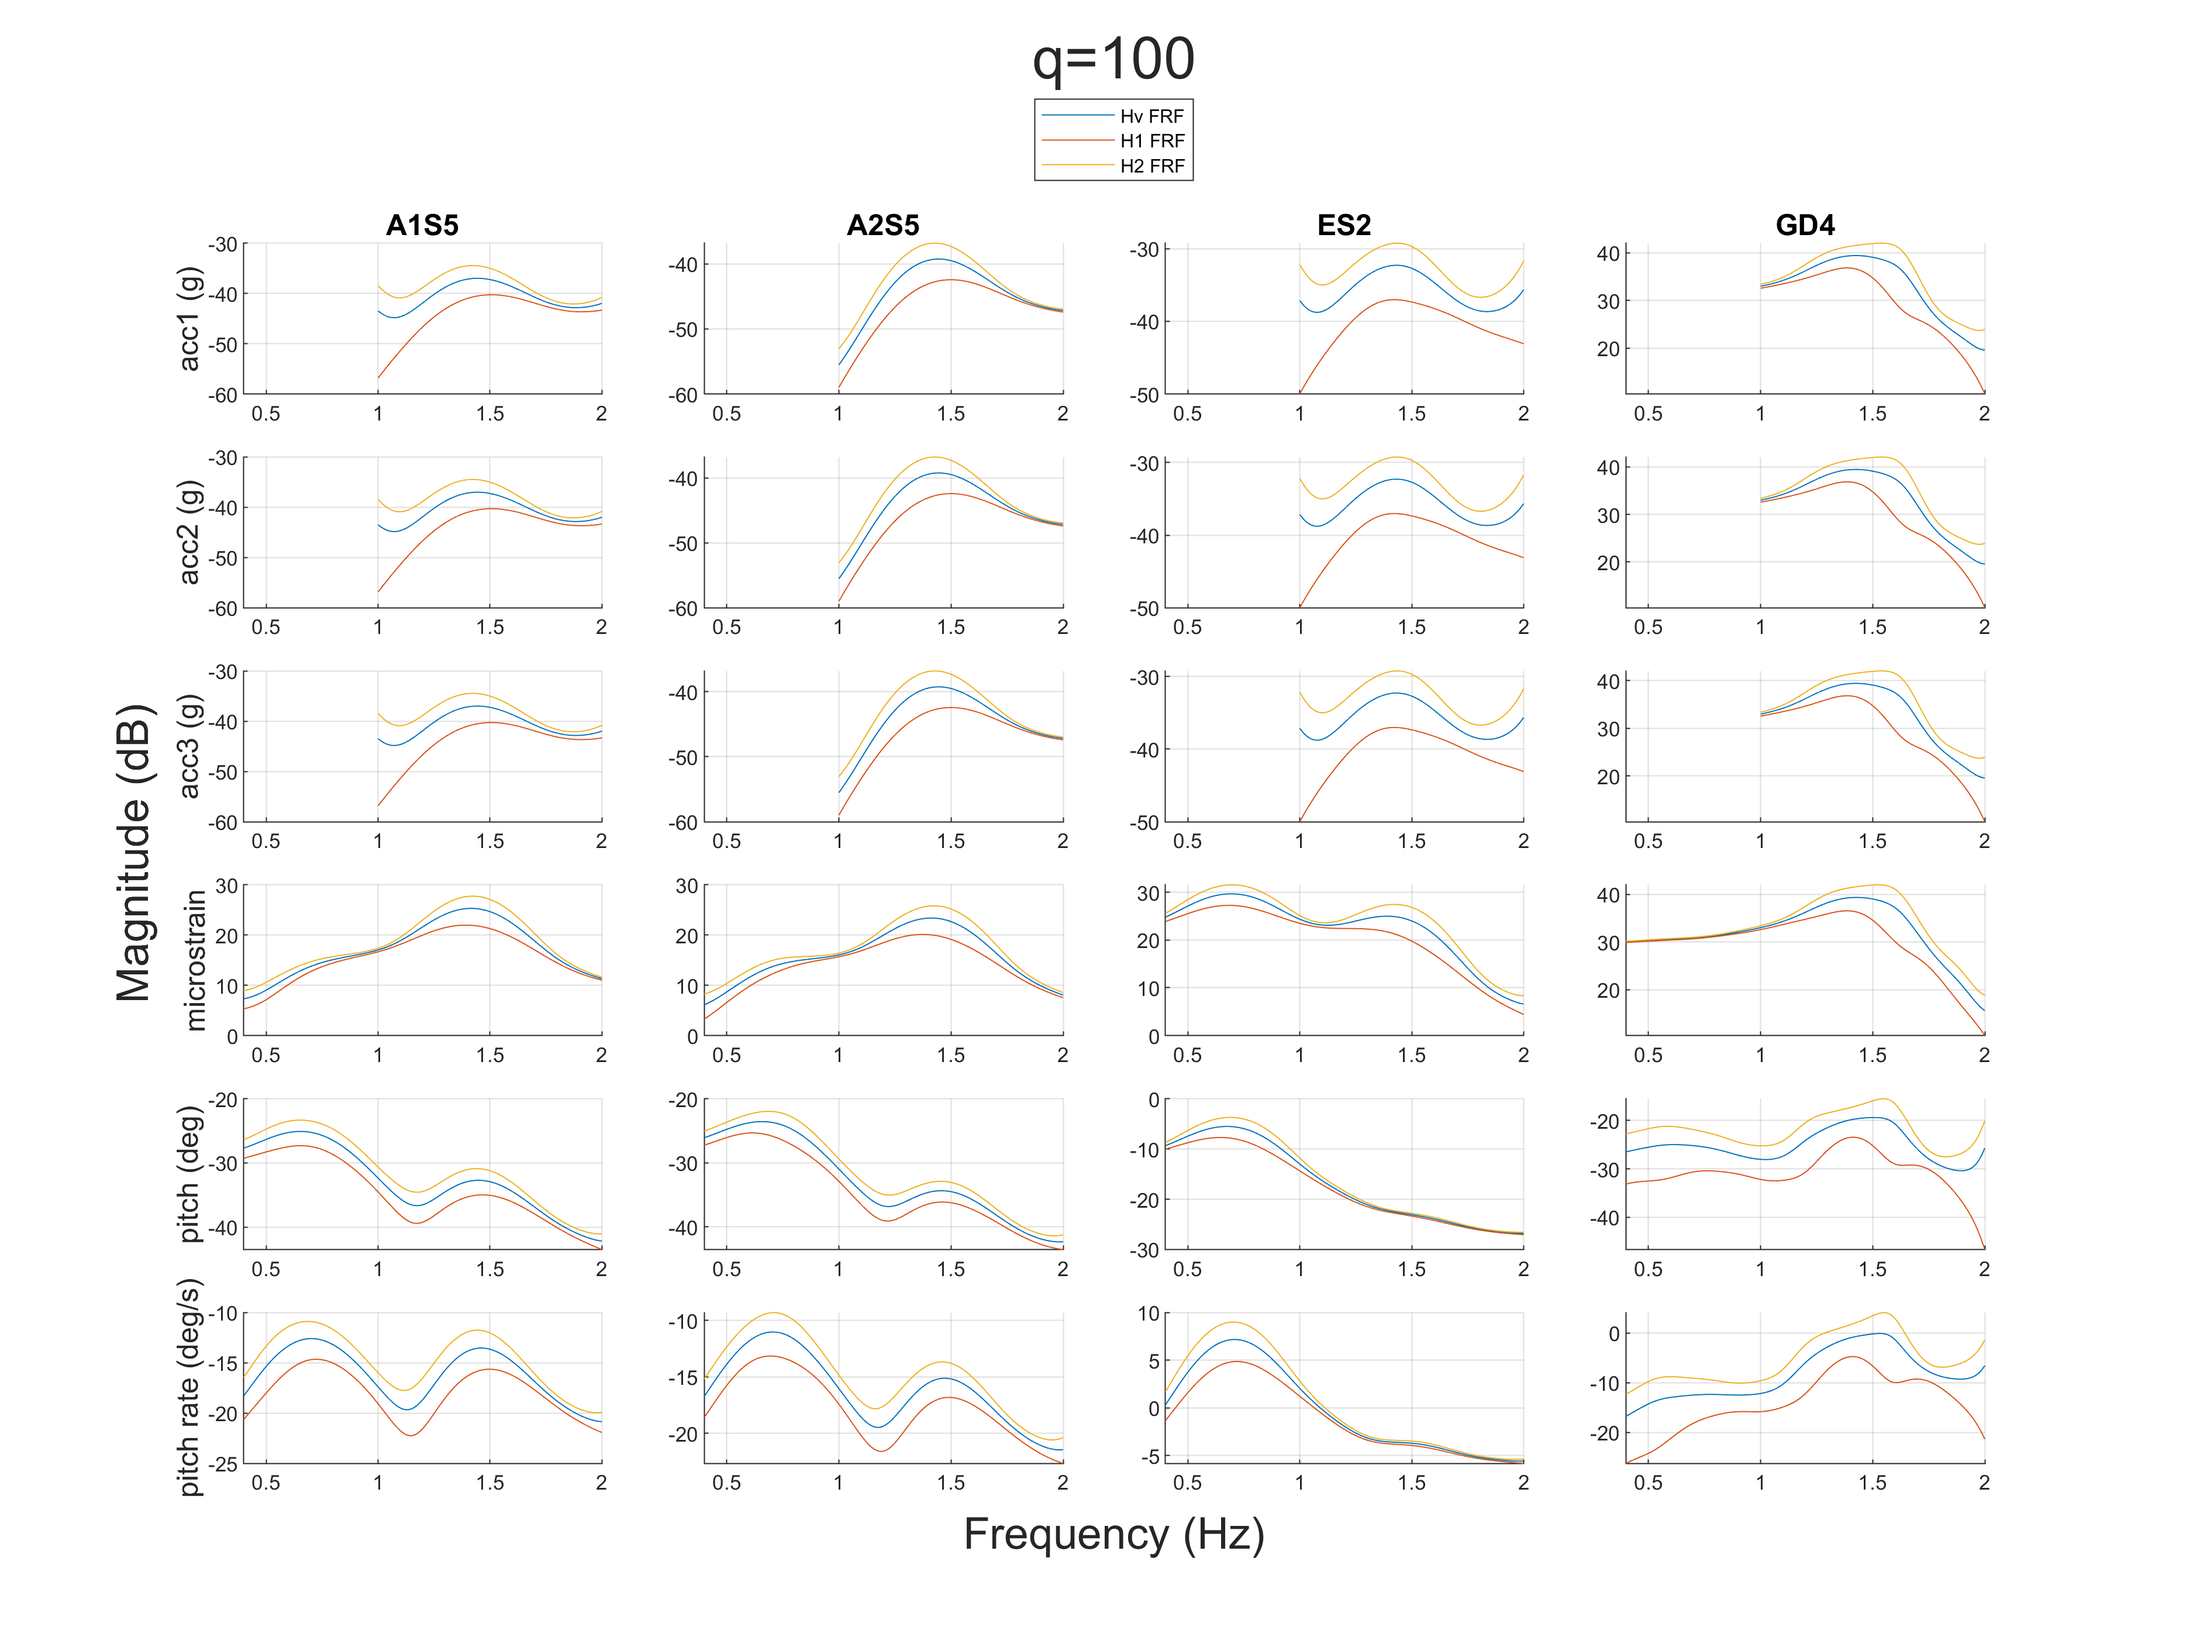
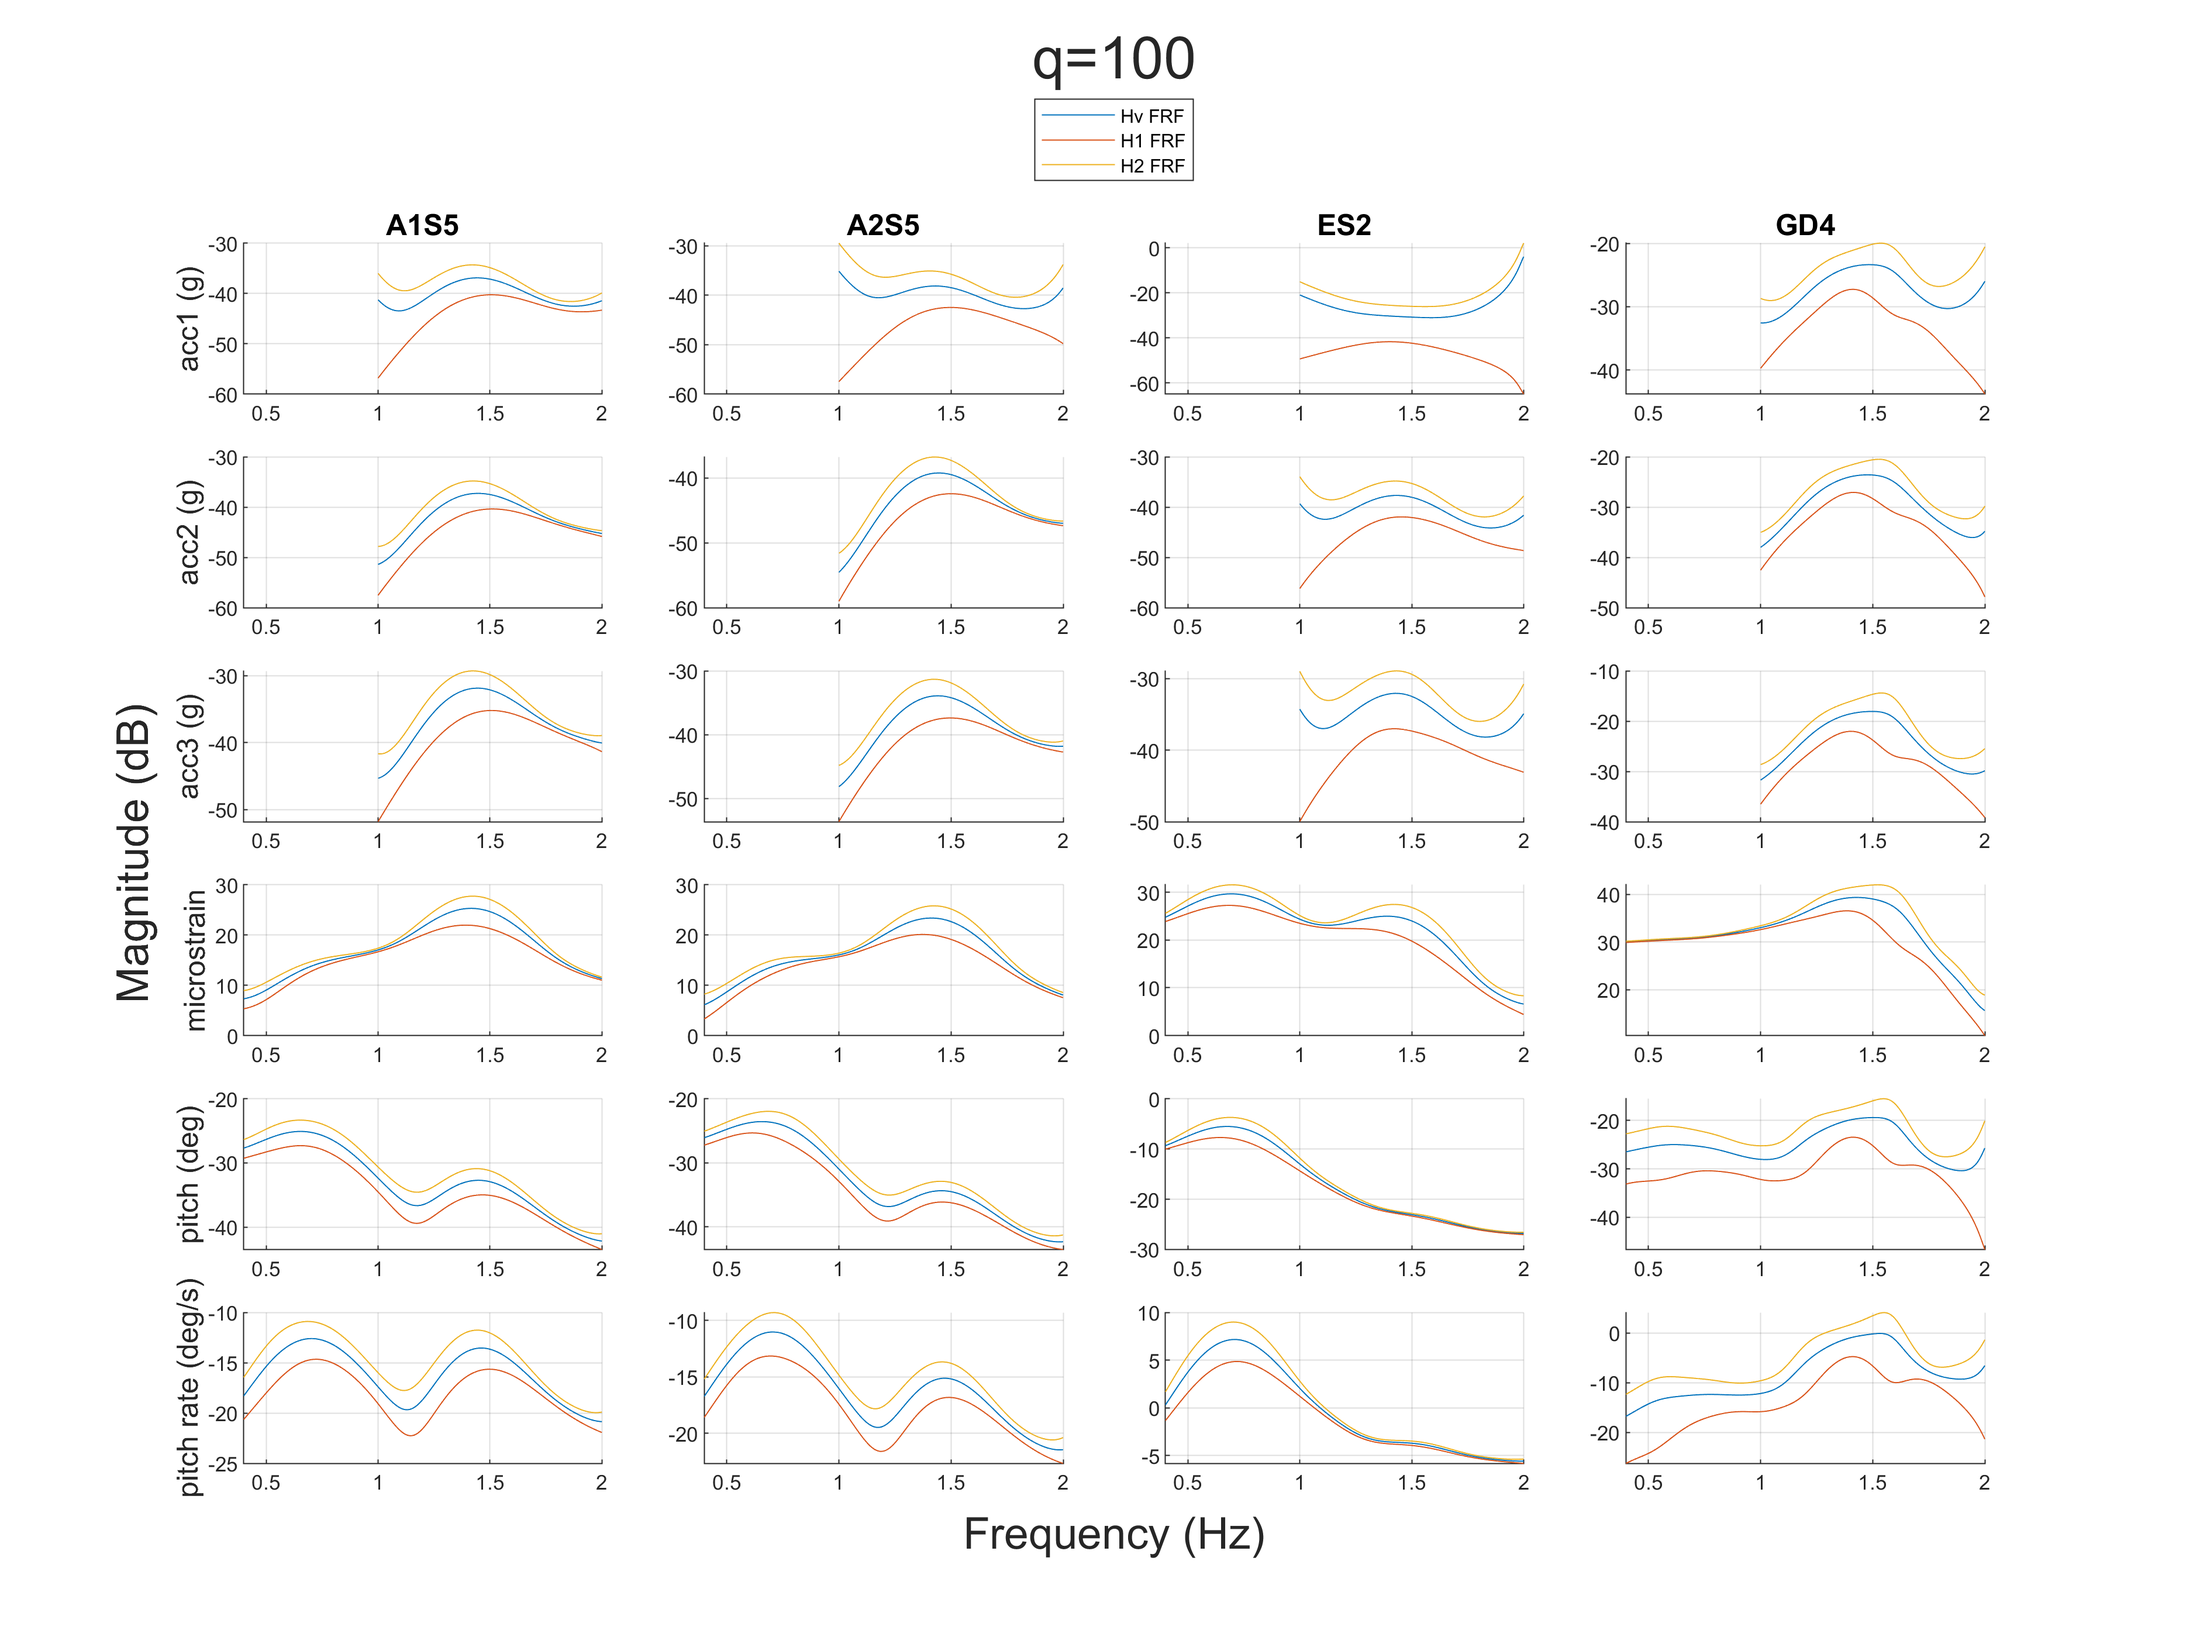
fixed wt gust-->acc response, filtering

diff --git a/windTunnel/postprocessWindTunnel.m b/windTunnel/postprocessWindTunnel.m
@@ -175,9 +175,10 @@ for idxInput = 1:length(inputs)
 
     % filter the accel data
     for idxRun = 1:3
-        data(idxRun).u(:,1:3) = accelFilter(data(idxRun).u(:,1:3),rate);
+        data(idxRun).y(:,1:3) = accelFilter(data(idxRun).y(:,1:3),rate);
     end
 
+    % save time-domain data
     savename = strcat('./wtData/','TIME_',data.fullTitle);
     save(savename,'data')
     disp(['saved ',char(savename)])
@@ -262,11 +263,17 @@ clear frfObjs
 for idxSpeed = 1:length(speeds)
 for idxInput = 1:length(inputs)
     data = dataObjs(idxInput,idxSpeed);
+
+    % filter accel time-series data
+    data.y(:,1:3) = accelFilter(data.y(:,1:3),rate);
+
+    % save FRF+TIME objs
     savename = strcat('./wtData/','FRF_',data.fullTitle);
     save(savename,'data')
     disp(['saved ',char(savename)])
 end
 end
+clear data
 
 %% PLOT FRF DATA
 for idxSpeed = 1:length(speeds)
@@ -414,7 +421,7 @@ function frfObj = computeObjFRF(dataObj,N,w,rate)
             % accelerometer issue management ! ! ! ! ! ! ! ! ! ! ! ! ! ! !
             if(any(idxOut==[1,2,3]))
                 u = dataObj.u(:,idxIn);
-                y = dataObj.y(:,idxIn);
+                y = dataObj.y(:,idxOut);
 
                 % constrain accelerometer freq response bandwidth
                 w_acc = [1,2]; % Hz
@@ -428,8 +435,8 @@ function frfObj = computeObjFRF(dataObj,N,w,rate)
                 y = accelFilter(y,rate);
 
                 % discard first 4 seconds of data
-                u = u(4*round(dataObj.rate):end);
-                y = y(4*round(dataObj.rate):end);
+                % u = u(4*round(dataObj.rate):end); % NO!!!! DONT DO THIS!!
+                % y = y(4*round(dataObj.rate):end);
 
                 % re-center data
                 u = u-mean(u);
